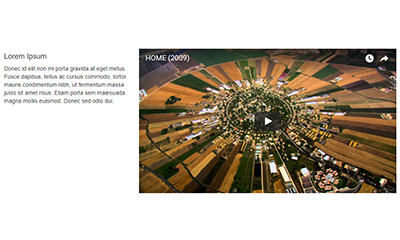
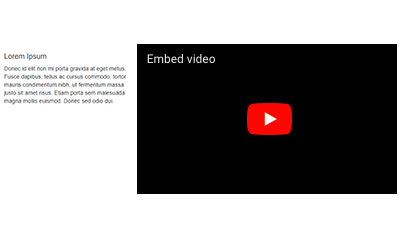
LDEV-4432: Tweaking snippets video
Fixing layout and embedding video options

diff --git a/lams_www/web/public/ckeditor-templates/bootsnippets.js b/lams_www/web/public/ckeditor-templates/bootsnippets.js
@@ -418,7 +418,7 @@ CKEDITOR.addSnippets( 'bootsnippets-multimedia', {
 
 		'<div class="col-lg-12">' +
 		'	<div class="embed-responsive embed-responsive-16by9" data-oembed-url="https://www.youtube.com/embed/">' +
-		'		<iframe class="embed-responsive-item" src="https://www.youtube.com/embed/2uTMTyqQxl4"></iframe>' +
+		'		<iframe class="embed-responsive-item" src="https://www.youtube.com/embed/nTFEUsudhfs"></iframe>' +
 		'	</div>' +
 		'</div>'
 	},
